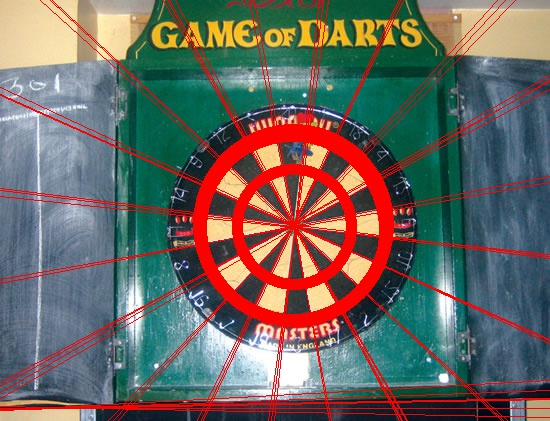
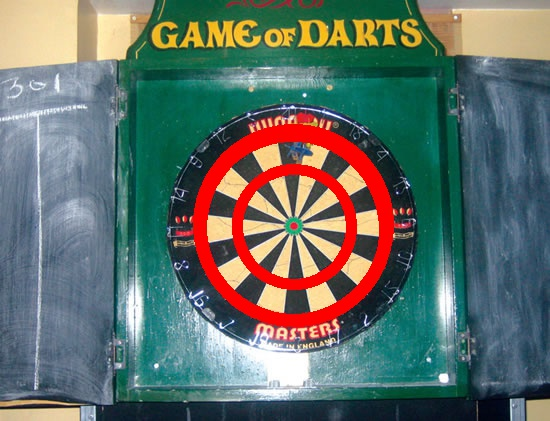
remove unused headers

diff --git a/sobel/sobel.cpp b/sobel/sobel.cpp
@@ -3,12 +3,12 @@
 #include <opencv/highgui.h>
 #include <opencv/cxcore.h>
 #include <math.h>
+#include <array>
 
 #define PI 3.14159265
 
 #define GRADIENT_THRESHOLD 200
 #define ANGLE_RANGE 20
-
 
 using namespace cv;
 using namespace std;
@@ -46,29 +46,24 @@ public:
 };
 
 std::ostream &operator<<(std::ostream &strm, const Circle &circle) {
-    return strm << "Cirle: x= " << circle.x << " y=" << circle.y << " r=" << circle.r << " \n";
+    return strm << "Circle: x= " << circle.x << " y=" << circle.y << " r=" << circle.r;
 }
 
 Mat convolution(Mat &input, int direction, Mat kernel, cv::Size image_size);
 
-void drawLines(Mat &image, Mat thresholdedMag, std::vector <Line>& detected_lines);
+void drawLines(Mat &image, Mat thresholdedMag, std::vector <Line> &detected_lines);
+void drawCircles(Mat &image, vector <Circle> &circles);
 
 Mat getMagnitude(Mat &dfdx, Mat &dfdy, cv::Size image_size);
-
 Mat getDirection(Mat &dfdx, Mat &dfdy, cv::Size image_size);
-
 void getThresholdedMag(Mat &input, Mat &output, double gradient_threshold);
-
 Mat get_houghSpaceLines(Mat &thresholdMag, Mat &gradientDirection, int width, int height);
-Mat get_houghSpaceCircles(Mat &thresholdMag, Mat &gradientDirection, int width, int height);
 
-vector<Line> collect_lines_from_houghSpace(Mat &houghSpace,
-                                   double threshold);
-vector <Circle> collect_circles_from_houghSpace(Mat &houghSpaceCircle, double voting_threshold);
+vector <Line> collect_lines_from_houghSpace(Mat &houghSpace, double threshold);
 
-double calculate_houghSpace_voting_threshold(Mat &hough_space);
+double calculate_houghLines_voting_threshold(Mat &hough_space);
 
-double calculate_houghSpace_voting_threshold(Mat &hough_space) {
+double calculate_houghLines_voting_threshold(Mat &hough_space) {
     double max, min;
     cv::minMaxLoc(hough_space, &min, &max);
     double houghSpaceThreshold = min + ((max - min) / 2);
@@ -114,21 +109,29 @@ void free3d(int ***arr, int y, int x, int r) {
 vector <Circle> houghCircles(Mat &image, Mat &thresholdMag, Mat &gradient_dir, int voting_threshold) {
 
     int radius = image.rows / 2;
+
+    //create a houghspace parameterized on circle centre (x,y) and radius (r)
     int ***houghSpace = allocate3DArray(image.rows, image.cols, radius);
     for (int y = 0; y < image.rows; y++) {
         for (int x = 0; x < image.cols; x++) {
 
 
-            /* The algorithm seem to yield better results if we skip this step...
+            /* Results seem to be better without the thresholding filter...
+
               if (thresholdMag.at<double>(y, x) == 0) {
                 continue;
             }*/
+
+
             for (int r = 0; r < radius; r++) {
                 int x0 = x - (int) (r * cos(gradient_dir.at<double>(y, x)));
                 int y0 = y - (int) (r * sin(gradient_dir.at<double>(y, x)));
+
+                //make sure the centre lies within the image
                 if (x0 >= 0 && x0 < image.cols && y0 >= 0 && y0 < image.rows) {
                     houghSpace[y0][x0][r]++;
                 }
+
                 x0 = x + (int) (r * cos(gradient_dir.at<double>(y, x)));
                 y0 = y + (int) (r * sin(gradient_dir.at<double>(y, x)));
                 if (x0 >= 0 && x0 < image.cols && y0 >= 0 && y0 < image.rows) {
@@ -178,6 +181,7 @@ int main(int argc, const char **argv) {
             1, 2, 1);
 
     Mat image_clone = imread(imgName, 1);
+    auto circle_frame = image_clone.clone();
 
     Mat dfdx = convolution(image, 0, dxKernel, image.size());
     Mat dfdy = convolution(image, 1, dyKernel, image.size());
@@ -192,22 +196,12 @@ int main(int argc, const char **argv) {
 
     Mat houghSpace = get_houghSpaceLines(thresholdedMag, gradientDirection, image.cols, image.rows);
 
-    //  Mat houghSpaceCircles = get_houghSpaceCircles(thresholdedMag, gradientDirection, image.cols, image.rows);
-    //  cout << "hough space done";
-    /*  auto circles = collect_circles_from_houghSpace(houghSpaceCircles, 4);
-      auto circle_img_frame = image.clone();
-      drawCircles(circle_img_frame, circles);
-*/
-    double houghSpaceThreshold = calculate_houghSpace_voting_threshold(houghSpace);
-
-    std::vector<double> rho;
-    std::vector<double> theta;
-
-    auto lines = collect_lines_from_houghSpace(houghSpace, houghSpaceThreshold);
+    auto houghLinesThreshold = calculate_houghLines_voting_threshold(houghSpace);
+    auto lines = collect_lines_from_houghSpace(houghSpace, houghLinesThreshold);
 
     drawLines(image_clone, thresholdedMag, lines);
     auto circles = houghCircles(image_clone, thresholdedMag, gradientDirection, 30);
-    drawCircles(image_clone, circles);
+    drawCircles(circle_frame, circles);
 
     return 0;
 }
@@ -254,24 +248,6 @@ void drawLines(Mat &image, Mat thresholdedMag, std::vector <Line> &detected_line
     imwrite("result/foundLines.jpg", image);
 }
 
-vector <Circle> collect_circles_from_houghSpace(Mat &houghSpaceCircle, double voting_threshold) {
-    int height = houghSpaceCircle.size[0];
-    int width = houghSpaceCircle.size[1];
-    int radius = houghSpaceCircle.size[2];
-    std::vector <Circle> circles;
-    for (int y = 0; y < height; y++) {
-        for (int x = 0; x < width; x++) {
-            for (int r = 0; r < radius; r++) {
-                if (houghSpaceCircle.at<cv::Vec3i>(y, x)[r] > voting_threshold) {
-                    circles.push_back(Circle(x, y, r));
-
-                }
-            }
-        }
-    }
-    return circles;
-}
-
 vector <Line> collect_lines_from_houghSpace(Mat &houghSpace,
                                             double threshold) {
     /*
@@ -286,7 +262,6 @@ vector <Line> collect_lines_from_houghSpace(Mat &houghSpace,
             if (val > threshold) {
                 Line l = Line(y, x);
                 lines.push_back(l);
-                //   std::cout << x << " ";
                 houghSpace.at<double>(y, x) = 255;
             } else {
                 houghSpace.at<double>(y, x) = 0.0;
@@ -295,39 +270,6 @@ vector <Line> collect_lines_from_houghSpace(Mat &houghSpace,
     }
     imwrite("result/houghSpace.jpg", houghSpace);
     return lines;
-}
-
-Mat get_houghSpaceCircles(Mat &thresholdMag, Mat &gradientDirection, int width, int height) {
-    //create a 3d array parameterized on: circle center (x,y) and radius (r)
-    int radius = width / 2;
-    int dims[] = {height, width, radius};
-    Mat houghSpace(3, dims, CV_8UC(1), Scalar::all(0));
-
-    for (int y = 0; y < thresholdMag.rows; y++) {
-        for (int x = 0; x < thresholdMag.cols; x++) {
-            double value = thresholdMag.at<double>(y, x);
-            if (value < 250) {
-                continue;
-            }
-            for (int r = 0; r < radius; r++) {
-                int a = r * std::cos(gradientDirection.at<double>(y, x));
-                int b = r * std::sin(gradientDirection.at<double>(y, x));
-                int x0 = x - a;
-                int y0 = y - b;
-
-                //make sure the centre lies within the image
-                if (x0 >= 0 && x0 < thresholdMag.cols && y0 >= 0 && y0 < thresholdMag.rows) {
-                    houghSpace.at<cv::Vec3i>(y0, x0)[r]++;
-                }
-                x0 = x + a;
-                y0 = y + b;
-                if (x0 >= 0 && x0 < thresholdMag.cols && y0 >= 0 && y0 < thresholdMag.rows) {
-                    houghSpace.at<cv::Vec3i>(y0, x0)[r]++;
-                }
-            }
-        }
-    }
-    return houghSpace;
 }
 
 Mat get_houghSpaceLines(Mat &thresholdMag, Mat &gradientDirection, int width, int height) {
